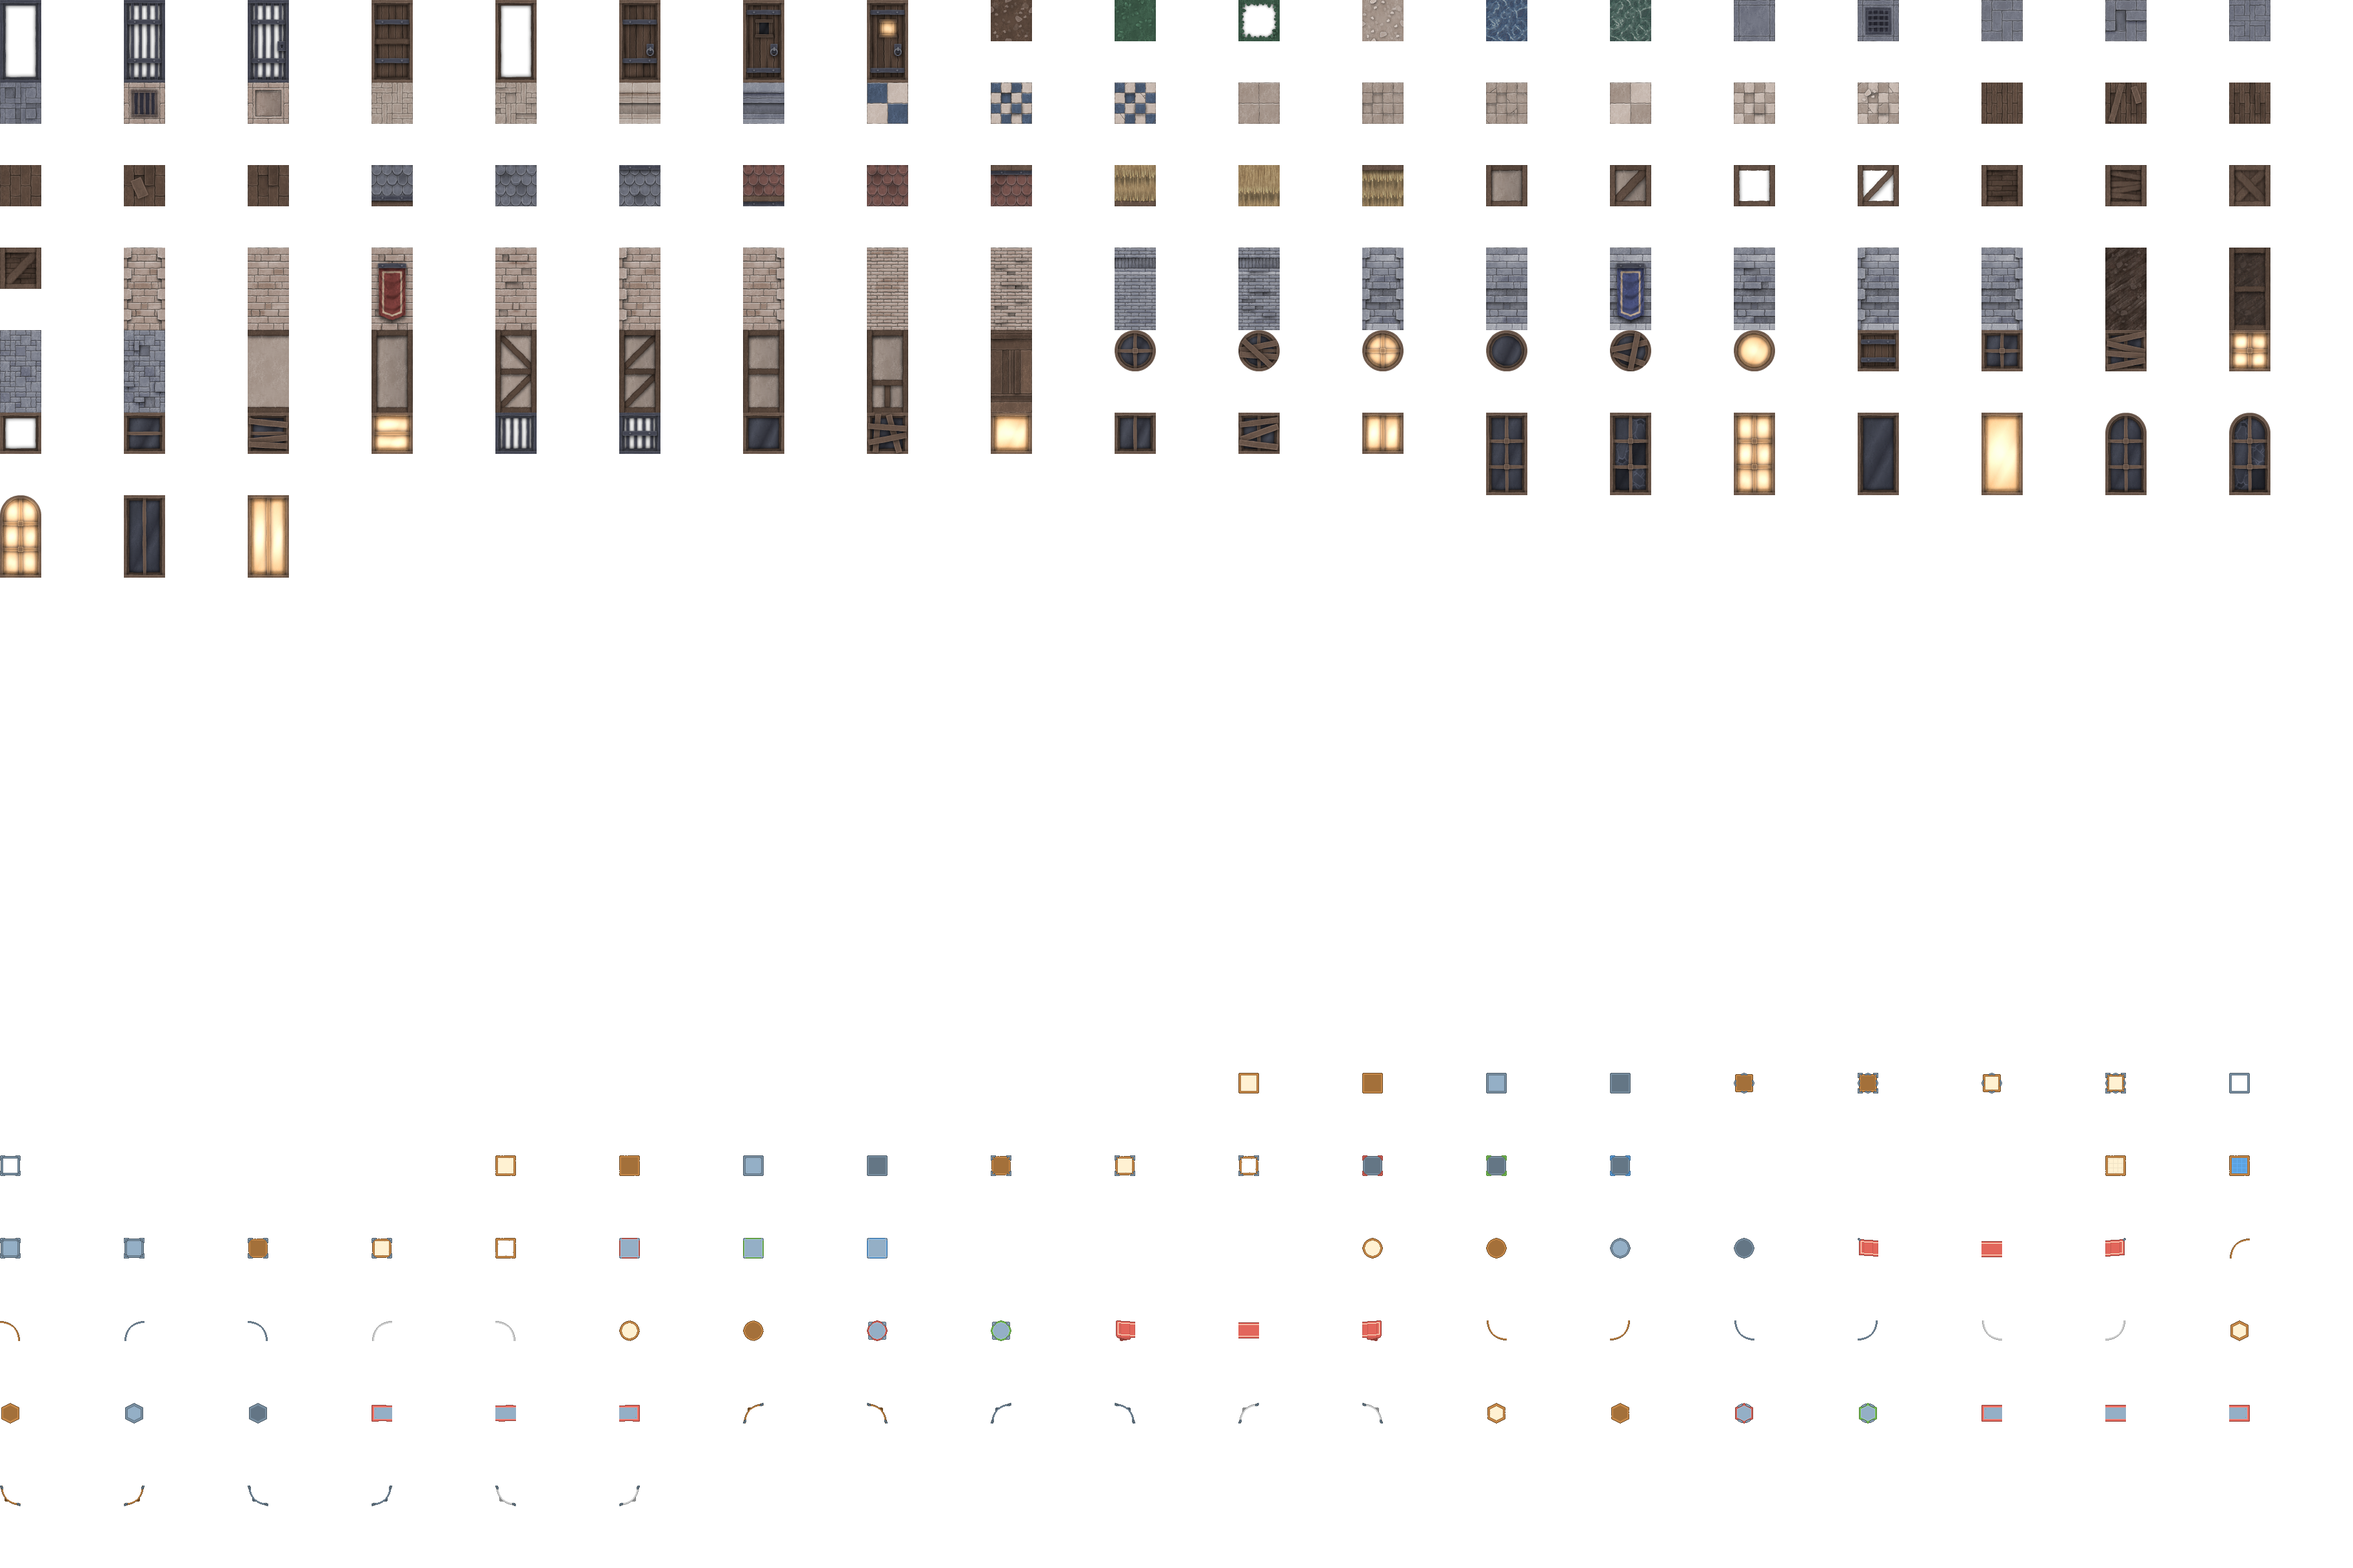
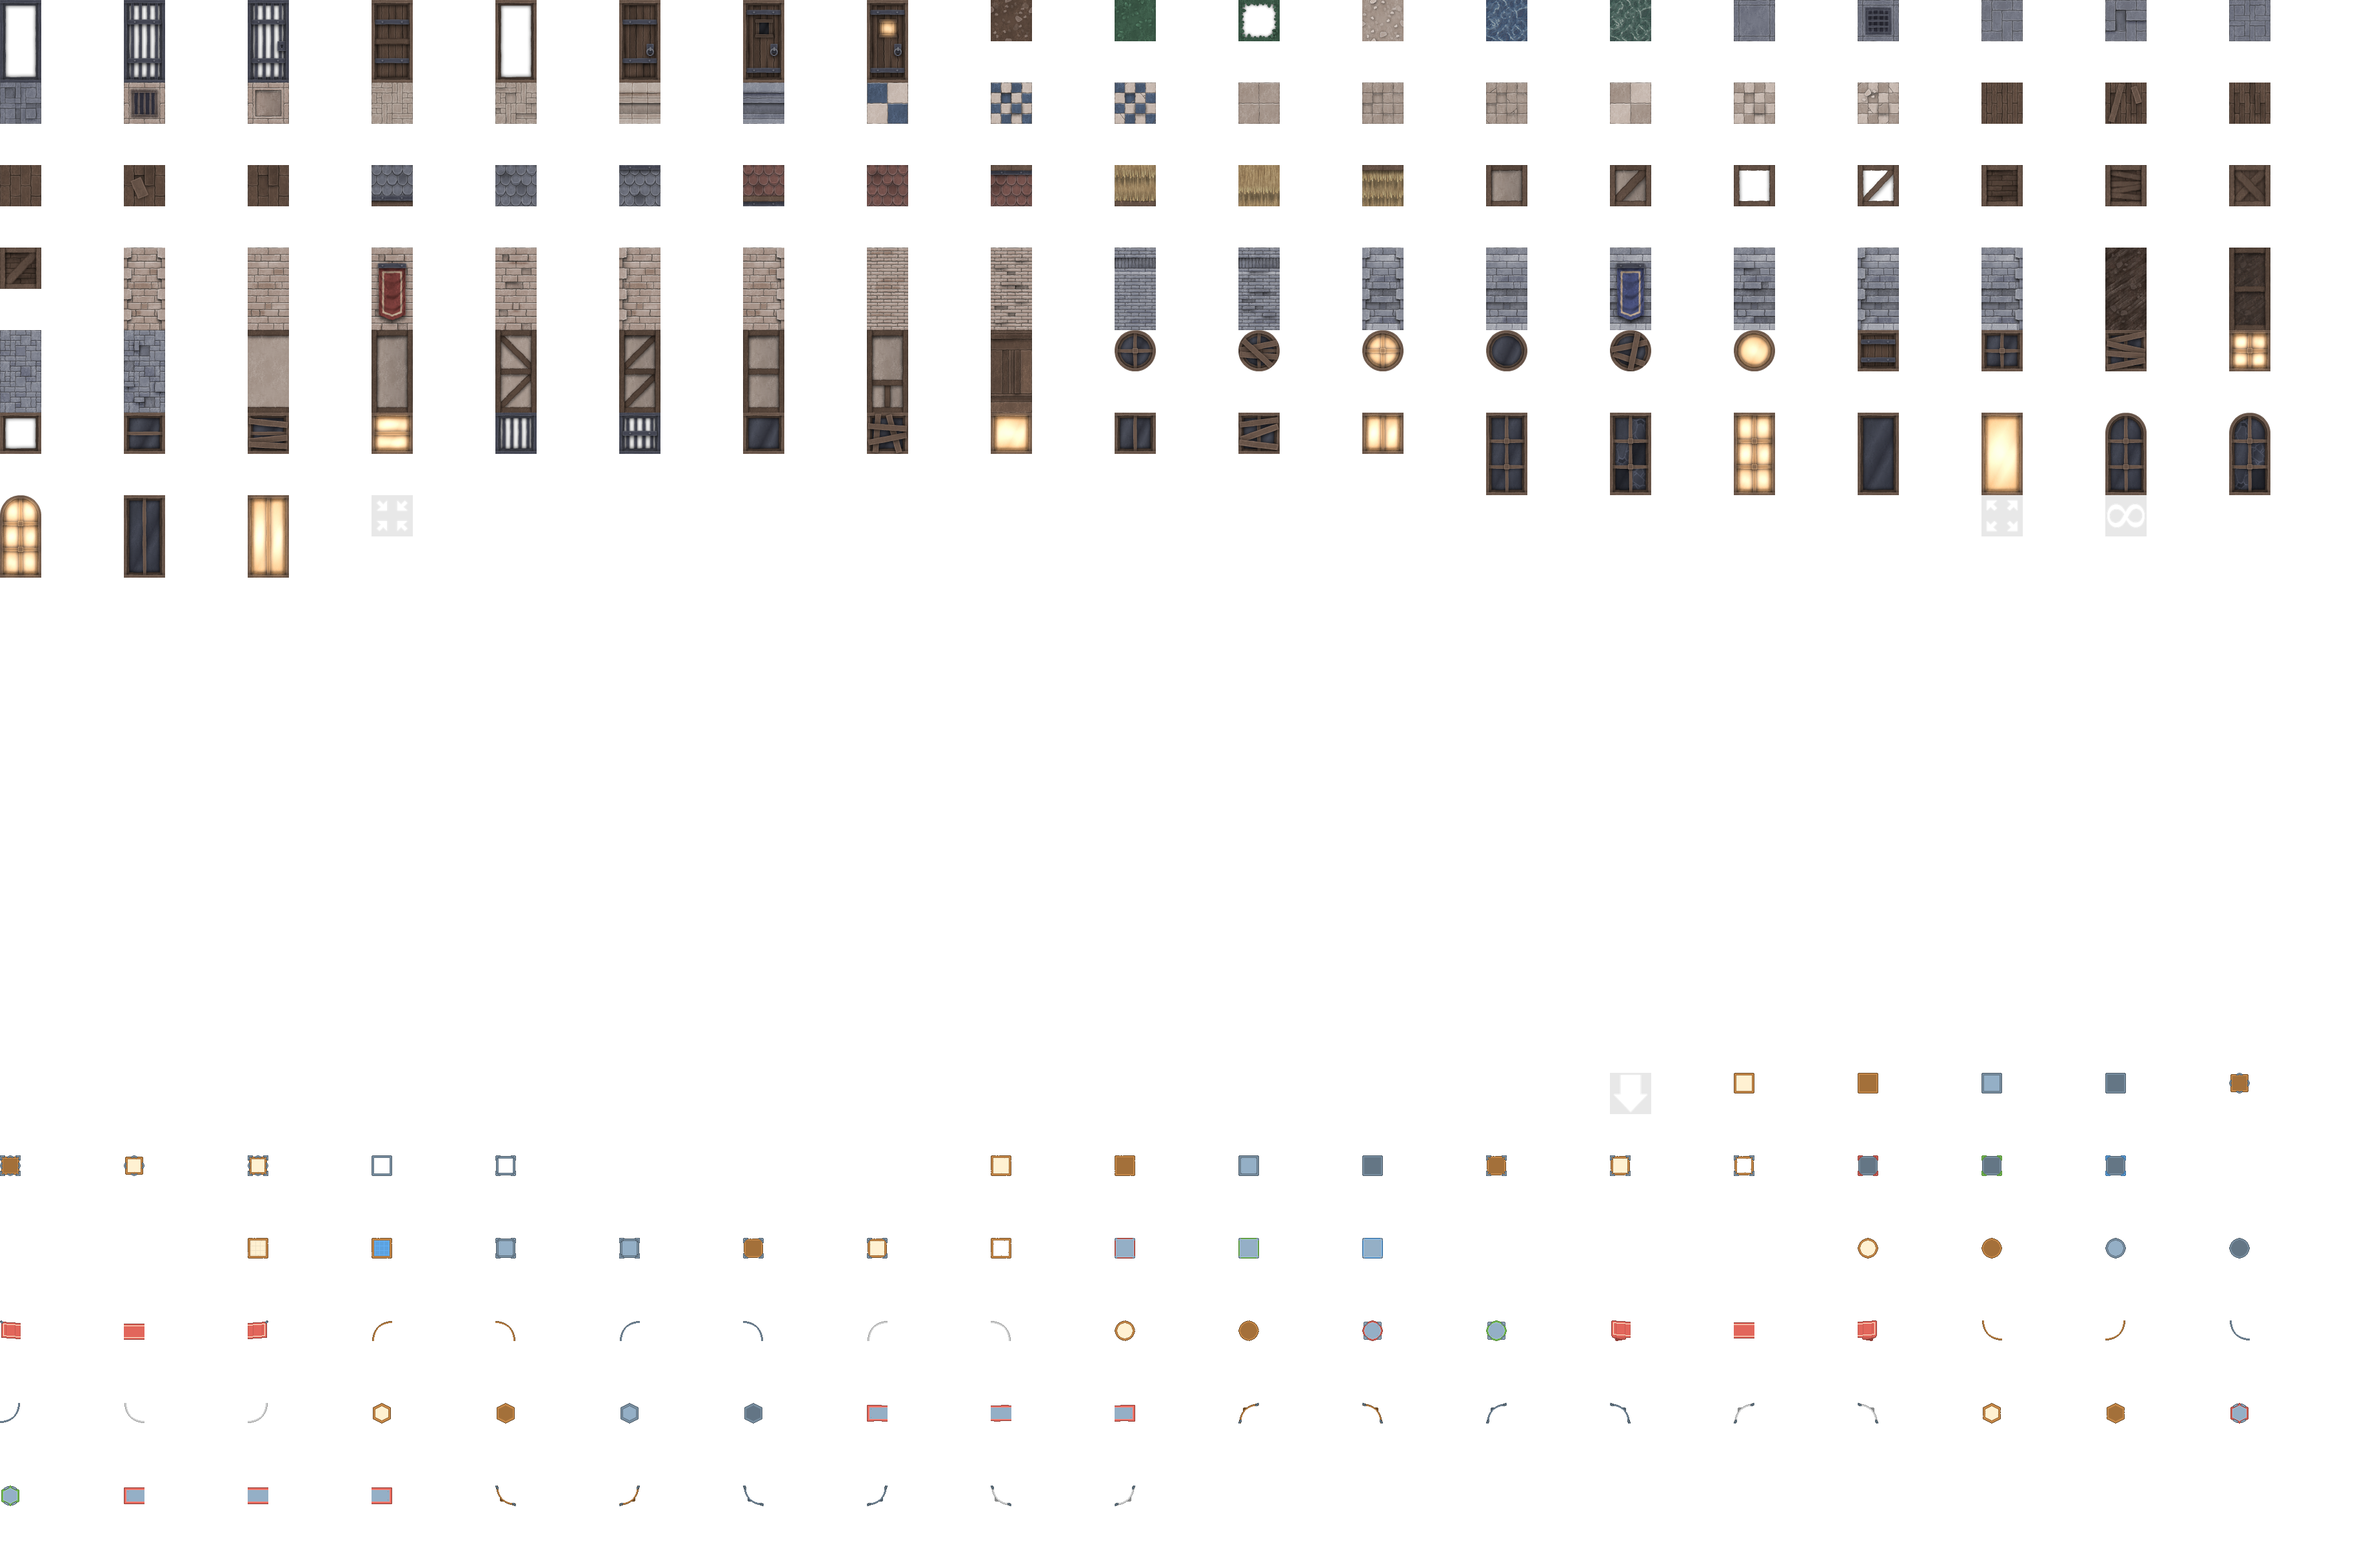
feat: Implement map zoom and pan controls with new UI elements and rotation support.

diff --git a/src/Game/GameLayer.cpp b/src/Game/GameLayer.cpp
@@ -236,16 +236,56 @@ void GameLayer::OnUpdate(float deltaTime)
                      if (m_currentStyle != RenderStyle::BORDERLANDS) m_currentStyle = RenderStyle::BORDERLANDS;
                      else m_currentStyle = RenderStyle::MINECRAFT; // Toggle off
                 }
-                else if (action == "TOGGLE_SHADER_CRT")
+                else if (action == "TOGGLE_MOCO")
                 {
-                    // Toggle CRT/Moco style
+                     // Toggle CRT/Moco style
                      if (m_currentStyle != RenderStyle::MOCO) m_currentStyle = RenderStyle::MOCO;
                      else m_currentStyle = RenderStyle::MINECRAFT; // Toggle off
+                }
+                else if (action == "MAP_ZOOM_IN")
+                {
+                    m_mapZoom *= 1.2f;
+                    if (m_mapZoom > 10.0f) m_mapZoom = 10.0f;
+                    UpdateMapView();
+                }
+                else if (action == "MAP_ZOOM_OUT")
+                {
+                    m_mapZoom /= 1.2f;
+                    if (m_mapZoom < 1.0f) m_mapZoom = 1.0f;
+                    UpdateMapView();
+                }
+                else if (action == "MAP_PAN_UP")
+                {
+                    m_mapOffset.y -= 0.1f / m_mapZoom;
+                    UpdateMapView();
+                }
+                else if (action == "MAP_PAN_DOWN")
+                {
+                    m_mapOffset.y += 0.1f / m_mapZoom;
+                    UpdateMapView();
+                }
+                else if (action == "MAP_PAN_LEFT")
+                {
+                    m_mapOffset.x -= 0.1f / m_mapZoom;
+                    UpdateMapView();
+                }
+                else if (action == "MAP_PAN_RIGHT")
+                {
+                    m_mapOffset.x += 0.1f / m_mapZoom;
+                    UpdateMapView();
+                }
+                else if (action == "MAP_RESET")
+                {
+                    m_mapZoom = 1.0f;
+                    m_mapOffset = glm::vec2(0.0f);
+                    UpdateMapView();
                 }
                 
                 uiService->ConsumeAction();
             }
         }
+
+
     }
 
     // Update Title (Need Window access? Engine handles title? Or GameLayer sets it via SDL)
@@ -268,6 +308,7 @@ void GameLayer::OnUpdate(float deltaTime)
         if (curWindow) SDL_SetWindowTitle(curWindow, title.c_str());
     }
 }
+
 
 void GameLayer::OnEvent(SDL_Event& e)
 {
@@ -668,6 +709,7 @@ void GameLayer::SwitchScene(GameState newState)
             if (macroService && macroService->GetMapTexture() != 0)
             {
                 uiService->SetElementTexture("macroWorldGeneration", "map_visualizer", macroService->GetMapTexture());
+                UpdateMapView();
             }
         }
     }
@@ -690,5 +732,28 @@ void GameLayer::SwitchScene(GameState newState)
     else if (m_currentState == GameState::DeathSummary)
     {
         if (uiService) uiService->SetScene("death_summary");
+    }
+}
+
+void GameLayer::UpdateMapView()
+{
+    float visiblePortion = 1.0f / m_mapZoom;
+    float halfVis = visiblePortion / 2.0f;
+    
+    // Clamp offset to keep view within bounds
+    float maxOffset = (1.0f - visiblePortion) / 2.0f;
+    if (maxOffset < 0) maxOffset = 0;
+    
+    m_mapOffset.x = glm::clamp(m_mapOffset.x, -maxOffset, maxOffset);
+    m_mapOffset.y = glm::clamp(m_mapOffset.y, -maxOffset, maxOffset);
+
+    glm::vec2 center = glm::vec2(0.5f) + m_mapOffset;
+    glm::vec2 minUV = center - glm::vec2(halfVis);
+    glm::vec2 maxUV = center + glm::vec2(halfVis);
+    
+    auto ui = ServiceLocator::Get().GetService<IUIService>();
+    if (ui)
+    {
+        ui->SetElementUVs("macroWorldGeneration", "map_visualizer", minUV, maxUV);
     }
 }

diff --git a/src/Engine/Services/UIService.cpp b/src/Engine/Services/UIService.cpp
@@ -65,6 +65,7 @@ void UIService::LoadLayouts(const std::string& path)
                     if (style.contains("border")) uiEl.style.border = HexToVec4(style["border"]);
                     if (style.contains("color")) uiEl.style.color = HexToVec4(style["color"]);
                     if (style.contains("image")) uiEl.style.image = style.value("image", "");
+                    if (style.contains("rotation")) uiEl.style.rotation = style.value("rotation", 0.0f);
                 }
 
                 if (el.contains("properties"))
@@ -140,6 +141,21 @@ void UIService::SetElementTexture(const std::string& sceneName, const std::strin
     }
 }
 
+void UIService::SetElementUVs(const std::string& sceneName, const std::string& elementId, const glm::vec2& uvMin, const glm::vec2& uvMax)
+{
+    if (m_layouts.find(sceneName) == m_layouts.end()) return;
+
+    for (auto& el : m_layouts[sceneName])
+    {
+        if (el.id == elementId)
+        {
+            el.style.uvMin = uvMin;
+            el.style.uvMax = uvMax;
+            return;
+        }
+    }
+}
+
 void UIService::GetScreenSize(int& w, int& h)
 {
     w = m_width;
@@ -210,6 +226,7 @@ void UIService::Render(RenderService* renderer)
              imgSprite.Size = glm::vec2(el.geometry.w, el.geometry.h);
              imgSprite.Color = glm::vec4(1.0f); // White tint for texture
              imgSprite.TextureID = atlas->GetTextureID();
+             imgSprite.Rotation = el.style.rotation;
              
              UVRect uvs = atlas->GetUVs(el.style.image);
              imgSprite.MinUV = glm::vec2(uvs.uMin, uvs.vMin);
@@ -240,7 +257,9 @@ void UIService::Render(RenderService* renderer)
             texSprite.Size = glm::vec2(el.geometry.w, el.geometry.h);
             texSprite.Color = glm::vec4(1.0f); // White for texture
             texSprite.TextureID = el.style.textureId;
-            // Default UVs are 0,0 to 1,1
+            texSprite.MinUV = el.style.uvMin;
+            texSprite.MaxUV = el.style.uvMax;
+            texSprite.Rotation = el.style.rotation;
             renderer->DrawSprite(texSprite);
         }
 

diff --git a/include/Engine/Services/UIService.h b/include/Engine/Services/UIService.h
@@ -17,6 +17,9 @@ struct UIStyle {
     glm::vec4 color = glm::vec4(1.0f);
     std::string image;
     unsigned int textureId = 0; // Custom OpenGL Texture ID
+    glm::vec2 uvMin = glm::vec2(0.0f, 0.0f);
+    glm::vec2 uvMax = glm::vec2(1.0f, 1.0f);
+    float rotation = 0.0f;
 };
 // ... (skip down to class definition) ...
 
@@ -73,6 +76,7 @@ public:
     void ConsumeAction() override;
     void SetElementText(const std::string& sceneName, const std::string& elementId, const std::string& text) override;
     void SetElementTexture(const std::string& sceneName, const std::string& elementId, unsigned int textureId) override;
+    void SetElementUVs(const std::string& sceneName, const std::string& elementId, const glm::vec2& uvMin, const glm::vec2& uvMax) override;
 
 protected:
     void OnInitialize() override;

diff --git a/src/Engine/Services/UIPathRepository.cpp b/src/Engine/Services/UIPathRepository.cpp
@@ -15,7 +15,11 @@ void UIPathRepository::OnInitialize()
     ScanDirectory("assets/ui/kenney_ui-pack-pixel-adventure/Tiles/Large tiles/Thin outline/");
     ScanDirectory("assets/ui/kenney_fantasy-ui-borders/");
     
-    // We can add more specific folders if needed
+    // Manual registration for specific icons in root assets/ui
+    m_paths["expand"] = "assets/ui/expand.png";
+    m_paths["contract"] = "assets/ui/contract.png";
+    m_paths["plain-arrow-down"] = "assets/ui/plain-arrow-down.png";
+    m_paths["infinity"] = "assets/ui/infinity.png";
 }
 
 void UIPathRepository::ScanDirectory(const std::string& path)

diff --git a/src/Engine/Services/FontService.cpp b/src/Engine/Services/FontService.cpp
@@ -122,8 +122,8 @@ void FontService::RenderText(RenderService* renderer, const std::string& text, f
     
     const FontData& font = m_fonts[nameIdx];
 
-    // 1. Shadow Pass (+2, +2 offset, Black)
-    RenderTextInternal(renderer, font, text, x + 2.0f, y + 2.0f, scale, glm::vec4(0.0f, 0.0f, 0.0f, 1.0f));
+    // 1. Shadow Pass (+2, +2 offset, Black) - REMOVED per user request
+    // RenderTextInternal(renderer, font, text, x + 2.0f, y + 2.0f, scale, glm::vec4(0.0f, 0.0f, 0.0f, 1.0f));
     
     // 2. Main Pass
     RenderTextInternal(renderer, font, text, x, y, scale, color);

diff --git a/include/Engine/Services/IUIService.h b/include/Engine/Services/IUIService.h
@@ -56,5 +56,6 @@ public:
     // Dynamic Updates
     virtual void SetElementText(const std::string& sceneName, const std::string& elementId, const std::string& text) = 0;
     virtual void SetElementTexture(const std::string& sceneName, const std::string& elementId, unsigned int textureId) = 0;
+    virtual void SetElementUVs(const std::string& sceneName, const std::string& elementId, const glm::vec2& uvMin, const glm::vec2& uvMax) = 0;
 };
 

diff --git a/include/Game/GameLayer.h b/include/Game/GameLayer.h
@@ -36,5 +36,8 @@ private:
     
     RenderStyle m_currentStyle = RenderStyle::BORDERLANDS;
     GameState m_currentState = GameState::MainMenu;
-    // MapMode enum removed, state managed by MacroService directly
+    // Map View State
+    float m_mapZoom = 1.0f;
+    glm::vec2 m_mapOffset = glm::vec2(0.0f);
+    void UpdateMapView();
 };
